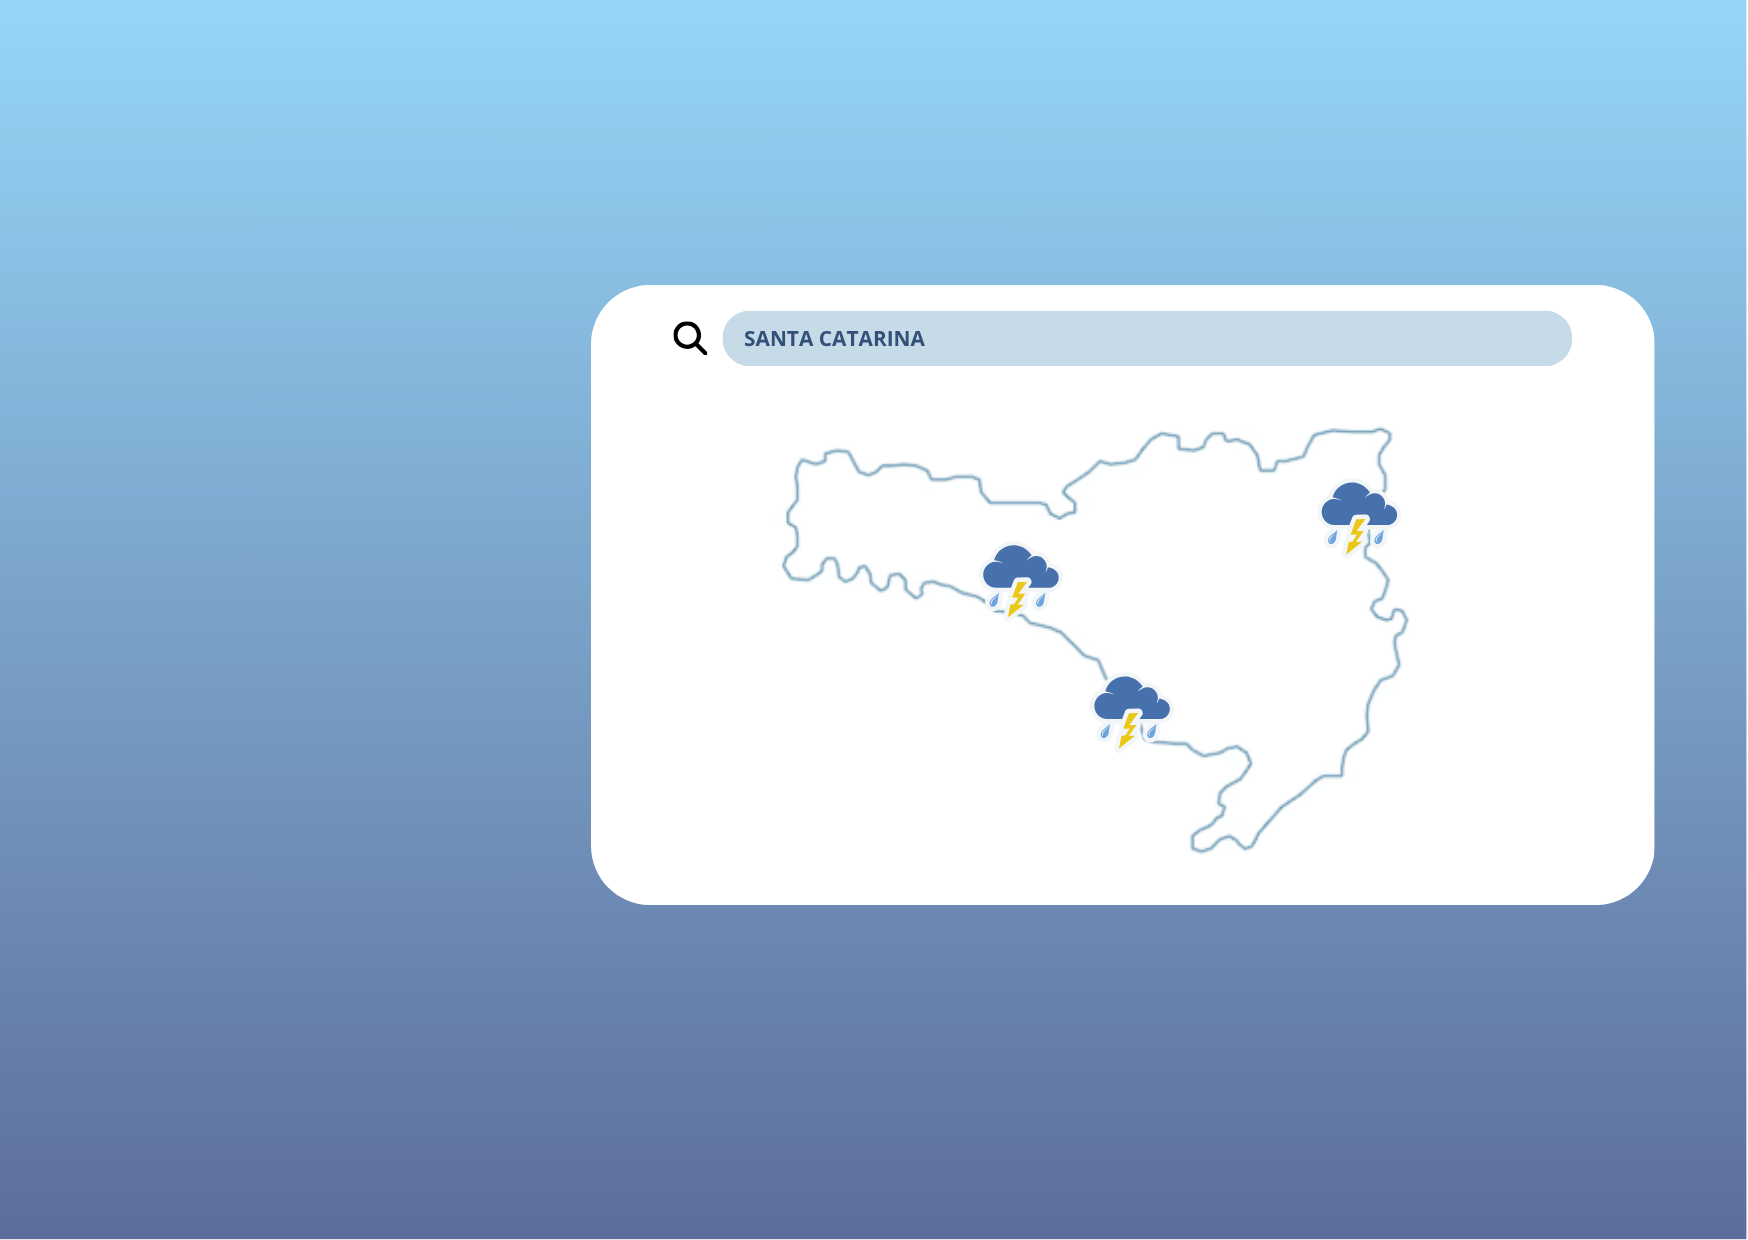
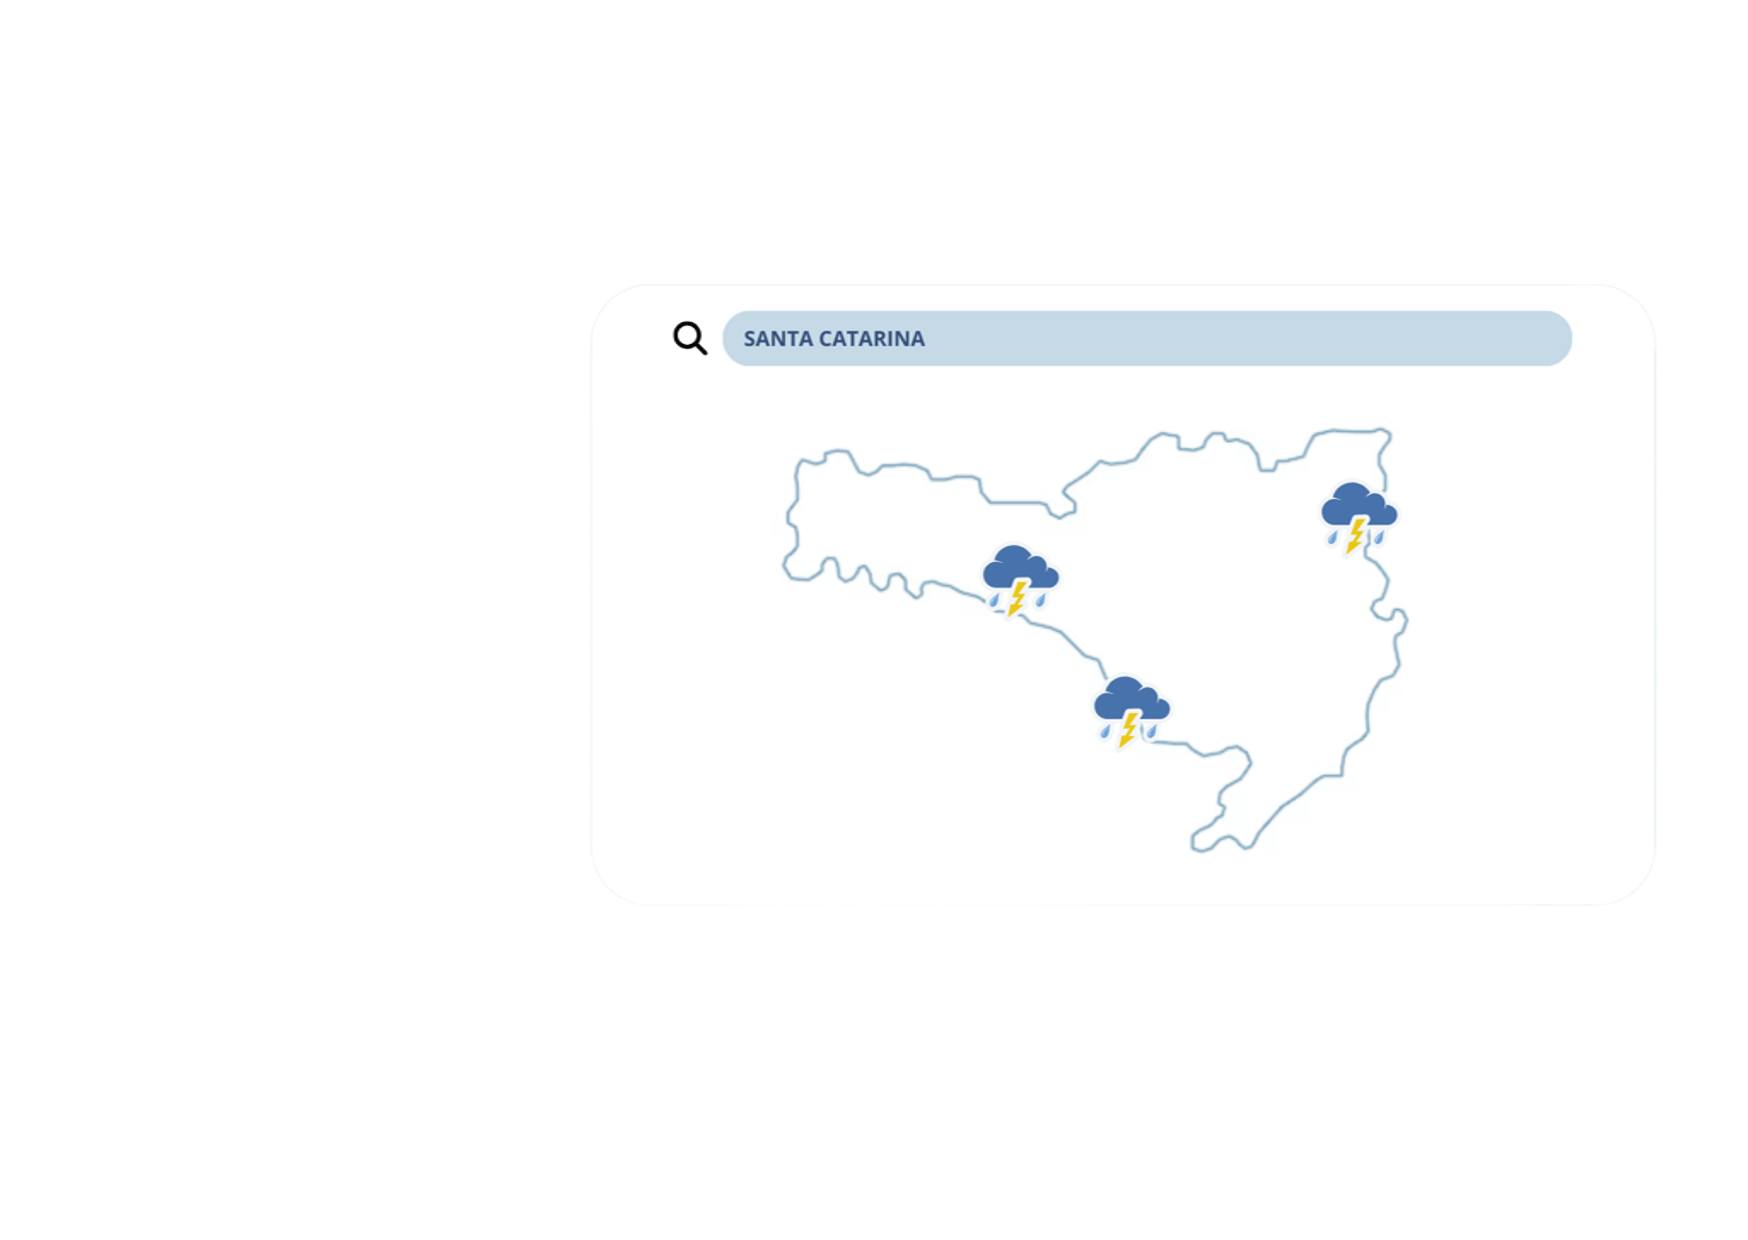
Add files via upload

diff --git a/javaGUI/PainelClima.java b/javaGUI/PainelClima.java
@@ -1,11 +1,15 @@
 import javax.swing.*;
 import java.awt.*;
+import java.awt.event.ActionEvent;
+import java.awt.event.ActionListener;
+import java.awt.image.BufferedImage;
+import java.io.File;
+import java.io.IOException;
 import java.text.SimpleDateFormat;
 import java.util.Calendar;
-import java.util.Locale;
+import javax.imageio.ImageIO;
 
 public class PainelClima {
-
     public static void main(String[] args) {
         SwingUtilities.invokeLater(PainelClima::criarJanela);
     }
@@ -16,57 +20,117 @@ public class PainelClima {
         frame.setDefaultCloseOperation(JFrame.EXIT_ON_CLOSE);
         frame.setLocationRelativeTo(null);
 
-        JPanel painelPrincipal = new JPanel();
+        JPanel painelPrincipal = new JPanel() {
+            BufferedImage background;
+            {
+                try {
+                    background = ImageIO.read(new File("clima_background.png"));
+                } catch (IOException e) {
+                    e.printStackTrace();
+                }
+            }
+
+            @Override
+            protected void paintComponent(Graphics g) {
+                super.paintComponent(g);
+                if (background != null) {
+                    g.drawImage(background, 0, 0, getWidth(), getHeight(), this);
+                }
+            }
+        };
+
         painelPrincipal.setLayout(null);
-        painelPrincipal.setBackground(new Color(229, 233, 240));
 
         JLabel labelDia = new JLabel("04", SwingConstants.CENTER);
-        labelDia.setFont(new Font("SansSerif", Font.BOLD, 40));
-        labelDia.setBounds(50, 30, 100, 50);
+        labelDia.setFont(new Font("SansSerif", Font.BOLD, 48));
+        labelDia.setBounds(70, 40, 100, 50);
 
         JLabel labelMesAno = new JLabel("AGOSTO - 2025", SwingConstants.CENTER);
         labelMesAno.setFont(new Font("SansSerif", Font.PLAIN, 16));
-        labelMesAno.setBounds(30, 70, 140, 30);
+        labelMesAno.setBounds(50, 90, 140, 30);
 
-        JPanel blocoData = new JPanel();
-        blocoData.setLayout(null);
+        JPanel blocoData = new JPanel(null);
         blocoData.setBackground(Color.WHITE);
-        blocoData.setBounds(30, 20, 180, 100);
+        blocoData.setBounds(50, 30, 180, 100);
         blocoData.setBorder(BorderFactory.createLineBorder(new Color(220, 220, 220)));
         blocoData.add(labelDia);
         blocoData.add(labelMesAno);
 
-        JTextField campoBusca = new JTextField("PESQUISE UM LOCAL...");
-        campoBusca.setFont(new Font("SansSerif", Font.PLAIN, 14));
-        campoBusca.setBounds(530, 710, 300, 30);
-
         JPanel painelRodape = new JPanel(null);
-        painelRodape.setBounds(480, 650, 600, 100);
+        painelRodape.setBounds(300, 600, 600, 100);
         painelRodape.setBackground(new Color(210, 220, 240));
         painelRodape.setBorder(BorderFactory.createLineBorder(Color.LIGHT_GRAY));
 
-        JLabel localLabel = new JLabel("SEU LOCAL - JOINVILLE, SC", SwingConstants.LEFT);
+        JLabel localLabel = new JLabel("SEU LOCAL - JOINVILLE, SC");
         localLabel.setFont(new Font("SansSerif", Font.BOLD, 14));
-        localLabel.setBounds(80, 10, 400, 20);
+        localLabel.setBounds(20, 10, 400, 20);
 
-        JLabel dataLabel = new JLabel("SEGUNDA - FEIRA, 04 DE AGOSTO DE 2025", SwingConstants.LEFT);
+        JLabel dataLabel = new JLabel("SEGUNDA-FEIRA, 04 DE AGOSTO DE 2025");
         dataLabel.setFont(new Font("SansSerif", Font.PLAIN, 12));
-        dataLabel.setBounds(80, 30, 400, 20);
+        dataLabel.setBounds(20, 30, 400, 20);
 
         JLabel climaLabel = new JLabel("\u26C8  21°C - 15°C", SwingConstants.RIGHT);
         climaLabel.setFont(new Font("SansSerif", Font.PLAIN, 16));
-        climaLabel.setBounds(450, 10, 150, 30);
+        climaLabel.setBounds(400, 10, 180, 30);
 
         painelRodape.add(localLabel);
         painelRodape.add(dataLabel);
         painelRodape.add(climaLabel);
-        painelRodape.add(campoBusca);
+
+        JTextField campoBusca = new JTextField();
+        campoBusca.setFont(new Font("SansSerif", Font.PLAIN, 14));
+        campoBusca.setBounds(400, 720, 250, 30);
+
+        JButton botaoBusca = new JButton("Buscar");
+        botaoBusca.setBounds(660, 720, 80, 30);
+
+        JLabel resultadoLabel = new JLabel("", SwingConstants.LEFT);
+        resultadoLabel.setBounds(750, 720, 300, 30);
+        resultadoLabel.setFont(new Font("SansSerif", Font.PLAIN, 14));
+        resultadoLabel.setForeground(Color.BLUE);
+
+        botaoBusca.addActionListener(new ActionListener() {
+            @Override
+            public void actionPerformed(ActionEvent e) {
+                String cidade = campoBusca.getText().trim().toLowerCase();
+                if (cidade.equals("joinville")) {
+                    resultadoLabel.setText("Clima: ☀ 25°C - 18°C");
+                } else if (cidade.equals("florianópolis")) {
+                    resultadoLabel.setText("Clima: ⛅ 22°C - 17°C");
+                } else if (cidade.equals("blumenau")) {
+                    resultadoLabel.setText("Clima: 🌧 20°C - 16°C");
+                    } else if (cidade.equals("campo alegre")) {
+                    resultadoLabel.setText("Clima: 🌧 20°C - 16°C");
+                    } else if (cidade.equals("mafra")) {
+                    resultadoLabel.setText("Clima: 🌧 15°C - 16°C");
+                    } else if (cidade.equals("balneário camburiú")) {
+                    resultadoLabel.setText("Clima: 🌧 17°C - 20°C");
+                    } else if (cidade.equals("são joaquim")) {
+                    resultadoLabel.setText("Clima: 🌧 0°C - 4°C");
+                } else {
+                    resultadoLabel.setText("Cidade não encontrada.");
+                }
+            }
+        });
 
         painelPrincipal.add(blocoData);
         painelPrincipal.add(painelRodape);
+        painelPrincipal.add(campoBusca);
+        painelPrincipal.add(botaoBusca);
+        painelPrincipal.add(resultadoLabel);
 
-        frame.add(painelPrincipal);
+        frame.setContentPane(painelPrincipal);
         frame.setVisible(true);
     }
-}
 
+    private static JLabel criarImagemRedimensionada(String caminho, int largura, int altura) {
+        try {
+            BufferedImage imagem = ImageIO.read(new File(caminho));
+            Image imagemRedimensionada = imagem.getScaledInstance(largura, altura, Image.SCALE_SMOOTH);
+            return new JLabel(new ImageIcon(imagemRedimensionada));
+        } catch (IOException e) {
+            e.printStackTrace();
+            return new JLabel("Imagem não encontrada: " + caminho);
+        }
+    }
+}
